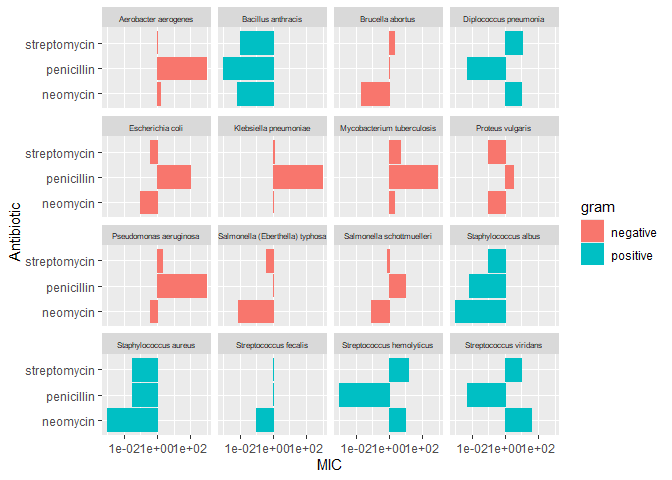
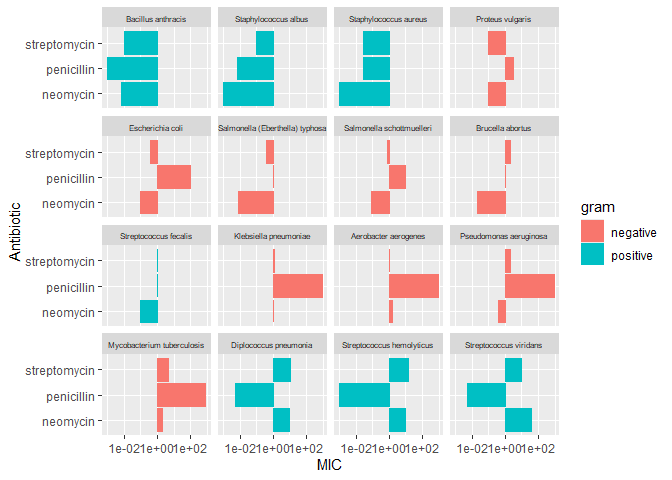
Assignment 5 Corrections

diff --git a/challenges/c05-antibiotics-assignment.md b/challenges/c05-antibiotics-assignment.md
@@ -200,6 +200,9 @@ df_antibiotics %>%
     names_to = "antibiotic",
     values_to = "n",
     cols = c('penicillin', 'streptomycin', 'neomycin')
+  ) %>%   
+  mutate(
+    bacteria = fct_reorder(bacteria, n)
   ) %>% 
   group_by(bacteria) %>% 
   ggplot(aes(n, antibiotic, color = gram, fill = gram )) +
@@ -232,6 +235,9 @@ df_antibiotics %>%
     values_to = "n",
     cols = c('penicillin', 'streptomycin', 'neomycin')
   ) %>% 
+  mutate(
+    bacteria = fct_reorder(bacteria, n)
+  ) %>% 
   group_by(bacteria) %>% 
   ggplot(aes(antibiotic,n, color = gram, fill = gram )) +
   geom_point() +
@@ -262,6 +268,9 @@ df_antibiotics %>%
     names_to = "antibiotic",
     values_to = "n",
     cols = c('penicillin', 'streptomycin', 'neomycin')
+  ) %>% 
+  mutate(
+    bacteria = fct_reorder(bacteria, n)
   ) %>% 
   group_by(bacteria) %>% 
   ggplot(aes(bacteria,antibiotic )) +
@@ -294,7 +303,10 @@ df_antibiotics %>%
     names_to = "antibiotic",
     values_to = "n",
     cols = c('penicillin', 'streptomycin', 'neomycin')
-  ) %>%   
+  ) %>%
+  mutate(
+    bacteria = fct_reorder(bacteria, n)
+  ) %>% 
   group_by(bacteria) %>% 
   ggplot(aes(bacteria,n)) +
   geom_point(aes(shape=antibiotic, color=antibiotic)) +
